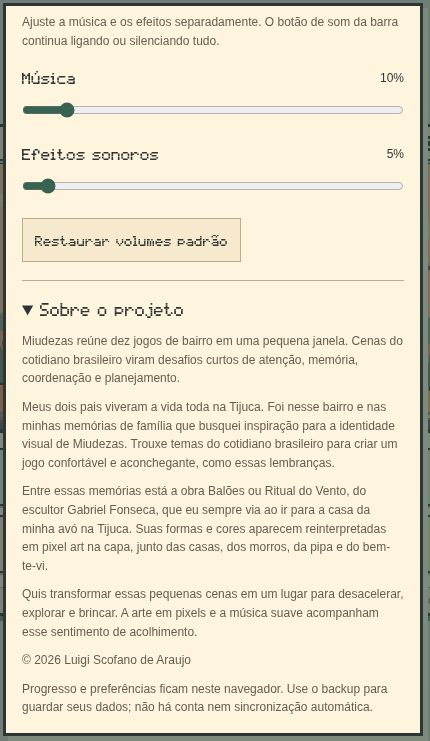
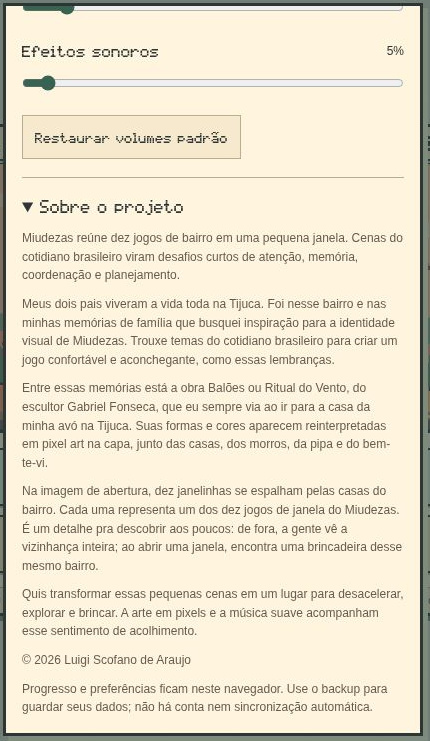
docs: atualizar capturas do Sobre com dez janelinhas

diff --git a/docs/imagens/telas/README.md b/docs/imagens/telas/README.md
@@ -2,7 +2,7 @@
 
 ## Origem
 
-Capturadas em **18 de novembro de 2026**, com a abertura atualizada em **19 de novembro de 2026**, navegando pela versão pública em [GitHub Pages](https://luigiscofano.github.io/Miudezas/), em navegador Chromium de computador. Foram usados os controles reais da aplicação; não são simulações, montagens ou imagens geradas.
+Capturadas em **18 de novembro de 2026**, com a abertura e as duas vistas do Sobre atualizadas em **19 de novembro de 2026**, navegando pela versão pública em [GitHub Pages](https://luigiscofano.github.io/Miudezas/), em navegador Chromium de computador. Foram usados os controles reais da aplicação; não são simulações, montagens ou imagens geradas.
 
 As seis capturas de navegação contêm a janela completa da aplicação, com a engrenagem visível: título, conteúdo, controles e rodapé. O recorte remove somente a margem vazia externa do navegador. O ponteiro foi mantido fora da região capturada. As imagens preservam a apresentação efetivamente exibida, sem retoques.
 
@@ -29,13 +29,15 @@ As três imagens adicionais registram o painel real. `configuracoes.jpg` mostra 
 |---|---|
 | [configuracoes.jpg](configuracoes.jpg) | Música, efeitos, restaurar padrões e acesso ao Sobre. |
 | [sobre.jpg](sobre.jpg) | Apresentação e memórias familiares. |
-| [sobre-continuacao.jpg](sobre-continuacao.jpg) | Referência artística, copyright e armazenamento local. |
+| [sobre-continuacao.jpg](sobre-continuacao.jpg) | Referência artística, parágrafo das dez janelinhas, copyright e armazenamento local. |
 
 A captura usa valores restaurados somente no navegador de teste. A atualização documental não modifica as preferências de visitantes. Texto e comportamento foram conferidos em [configuracoes.js](../../../dist/configuracoes.js); o [README principal](../../../README.md#configurações-e-sobre-o-projeto) transcreve o Sobre e explica os controles.
 
 ---
 
-A abertura foi recapturada da versão publicada no commit `3f99adfa02325b7db2ed423255afd73f8f17f4a7`, após recarga sem cache. Mantém o recorte de 502 × 502, a janela inteira e o cursor fora da imagem. As outras capturas continuam sendo as de 18/11. Os READMEs principal, de `dist`, de `docs`, das artes e da capa já referenciam o PNG canônico atualizado e não precisaram duplicá-lo.
+A abertura foi recapturada da versão publicada no commit `3f99adfa02325b7db2ed423255afd73f8f17f4a7`, após recarga sem cache. Mantém o recorte de 502 × 502, a janela inteira e o cursor fora da imagem. As demais capturas de navegação e a vista fechada das configurações continuam sendo as de 18/11. Os READMEs principal, de `dist`, de `docs`, das artes e da capa já referenciam o PNG canônico atualizado e não precisaram duplicá-lo.
+
+As duas vistas do Sobre foram recapturadas em 19/11/2026 do Pages publicado no commit `dc2fa8d42aacfb612b53994c301fd5c31f53e13d`, após a inclusão do parágrafo das dez janelinhas. Ambas mantêm o enquadramento de 430 × 741, sem cursor nem dados pessoais de sessão. A continuação mostra o parágrafo completo e o rodapé; somente a margem externa foi recortada, sem retoques no painel.
 
 ## Como atualizar
 
